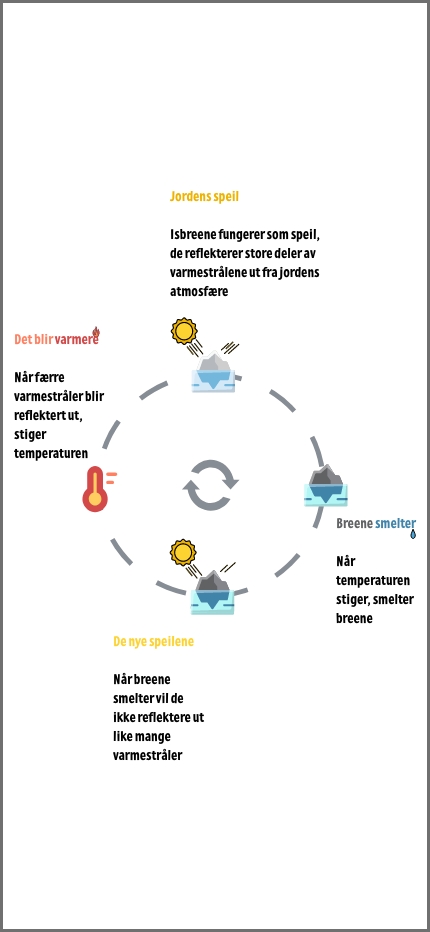
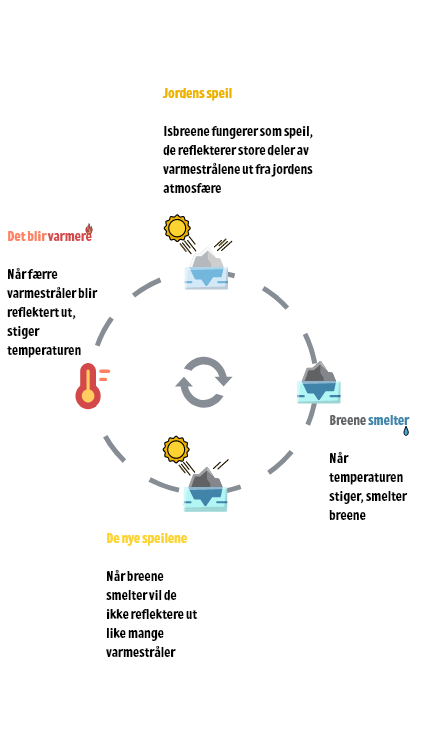
Last minute changes

diff --git a/src/scss/article5.scss b/src/scss/article5.scss
@@ -75,6 +75,14 @@
     border: 1px solid black;
 }
 
+.infographDesktop {
+    display: none;
+  }
+  
+.infograpMobile {
+    width: 100%;
+}
+
 @media screen and (min-width: 1000px) {
     
     .article5Area {
@@ -89,4 +97,14 @@
     .isbjorn {
         padding: 20rem;
     }
+
+    .infographMobile {
+        display: none;
+      }
+    
+      .infographDesktop {
+        display: block;
+        width: 100%;
+        max-width: 60rem;
+      }
 }

diff --git a/src/scss/main.scss b/src/scss/main.scss
@@ -93,7 +93,7 @@ header {
   display: flex;
   padding: 1rem;
   margin: auto;
-  font-size: 2.5rem;
+  font-size: 1.5rem;
 
   a {
     text-decoration: none;

diff --git a/src/scss/article2.scss b/src/scss/article2.scss
@@ -5,7 +5,7 @@
   }
   
   .infograpMobile {
-    width: 100%;
+    width: 90%;
   }
 
   @media screen and (min-width: 1000px) {
